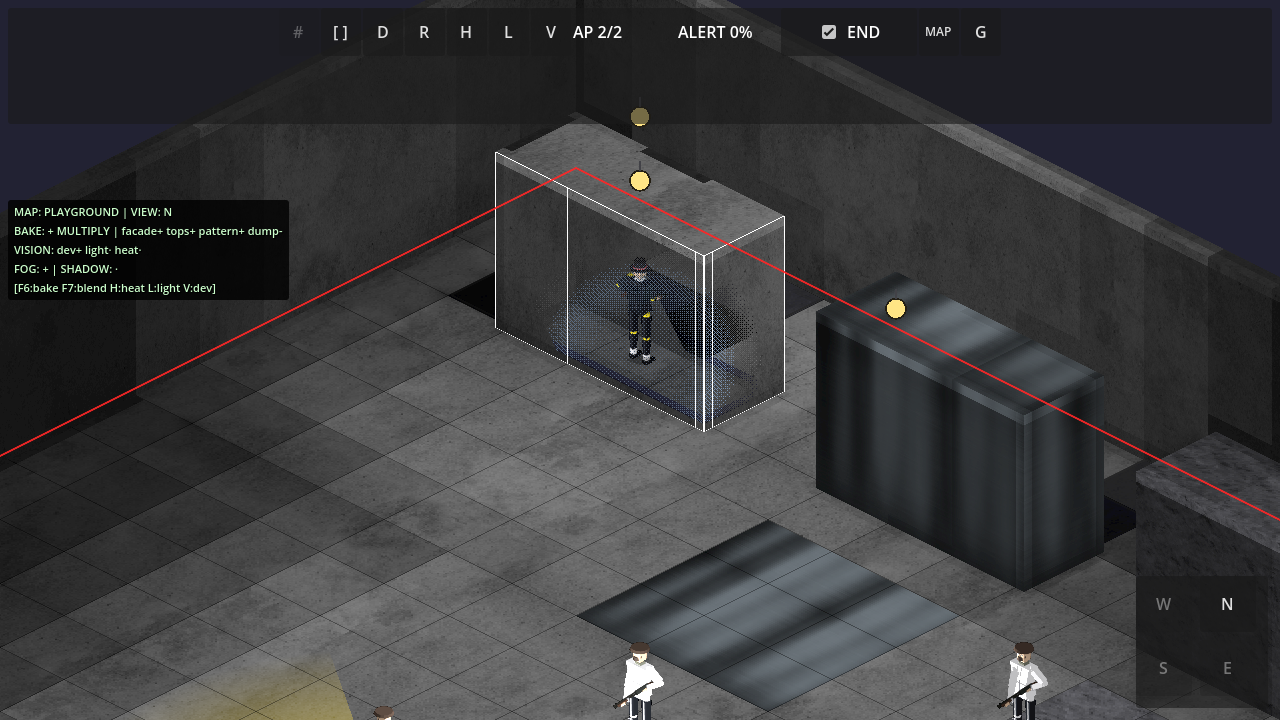
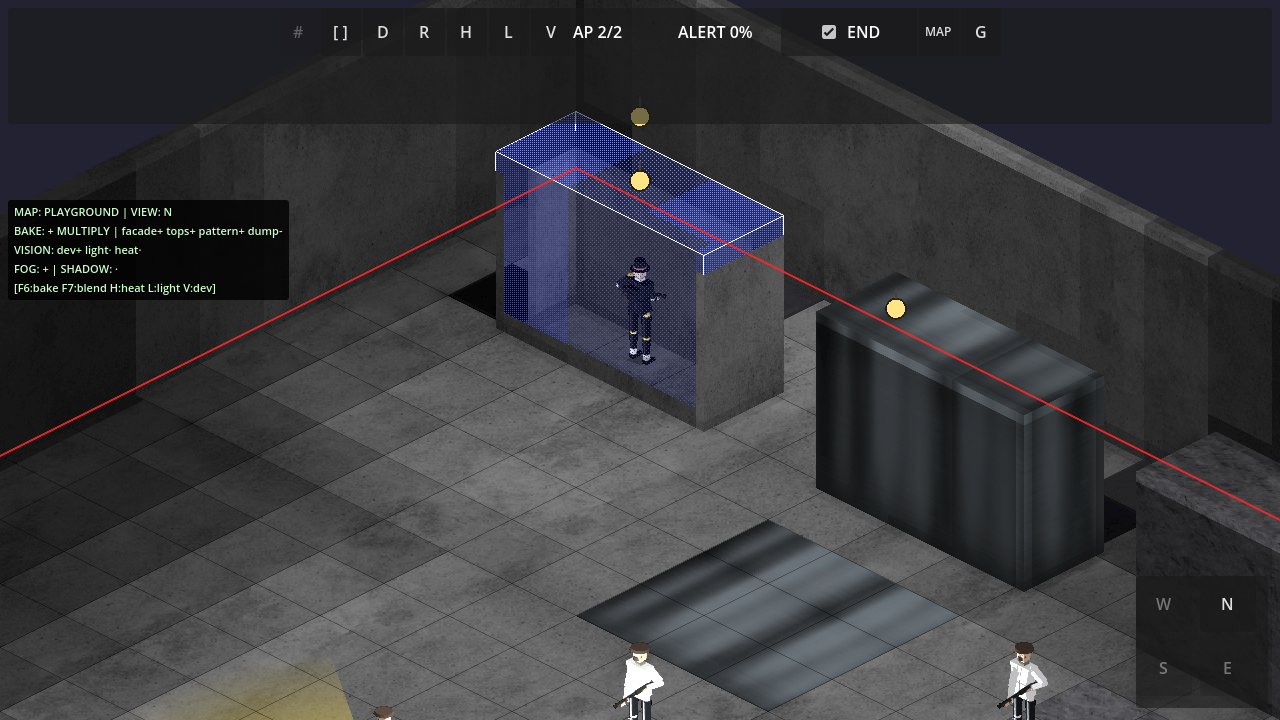
[R3D-7c] Cutaway driven by the OcclusionSet: solid 2-voxel base, dithered ghost above, wireframe lines; drops the cylinder and storey spikes

Changed region(s): [[0.375, 0.1528, 0.625, 0.6111]]

diff --git a/PROMPTS/PLANNING/RENDER3D_MASTER_PLAN.md b/PROMPTS/PLANNING/RENDER3D_MASTER_PLAN.md
@@ -1904,24 +1904,26 @@ captures, 2D against 3D.
 
 ### R3D-7 — Occlusion and cutaway in 3D
 
-**SPIKE 2026-09-19 (`[R3D-7a/b]`) — two candidates built, LOOK CALL PENDING (Director).** Both are VIEW only
-(`Board3DLive._update_cutaway()` writes shader uniforms, nothing else — `OCCLUSION` O1 holds).
-`INFILTRAITOR_CUTAWAY_MODE = dither (default) | storey | both`, `CUTAWAY=0` off, `CUTAWAY_RADIUS`, `CUTAWAY_LINES=0`.
-- **Dither (Director: "gosto muito desse dither").** The opaque shader (decals derive from it) dithers what is
-  nearer the camera than the agent's plane, above the feet, inside a cylinder (R 1.4) along the camera ray:
-  three states from two Bayer thresholds — kept, discarded, or a **ghost diamond** (flat tint, face contrast
-  top 1.0 / SE 0.80 / SW 0.60) so the vanished wall stays readable. Only geometry NEARER than the agent is
-  cut; the wall behind is never touched. **White edge lines:** every merged quad also emits its four edges as a
-  line surface (`LINE_KEY`, 8 vertices per quad), and the line shader decides per QUAD (its bounds ride in
-  CUSTOM0/1; the camera ray is intersected with the quad's plane and clamped into it) so the whole outline of
-  a wall that is being ghosted shows, not just the part inside the circle. Capture:
-  `Screenshots/history/r3d7_cutaway_dither_spike.png`.
-- **Storey cut.** Everything above the agent's storey (feet + 1 unit) is discarded. Capture:
-  `r3d7_cutaway_storey_spike.png` — the cut walls are hollow (no cap on the cut plane yet).
-- **Known limits:** glass is not cut; a fixed radius; only the agent is revealed, not guards; the ghost fills only
-  the cylinder, while the outline covers the whole quad, so a long wall reads as a box; the storey cut is
-  map-wide, not per room; the 2D wireframe overlay remains what draws under `RENDER3D=0`. Cost of the lines:
-  8 vertices per merged quad and one extra draw surface per chunk — NOT measured on the Moto.
+**BUILT 2026-09-19 (`[R3D-7c]`) — the ORIGINAL 2D mechanism, on 3D. LOOK CALL PENDING (Director).** The
+Director's diagram (2026-09-19) is the spec: an occluded EDGE keeps its bottom 2 voxels solid (a fixed
+8x2x2 block across the edge), and everything above it becomes a wireframe taking the shape of the slices
+above, with a fill whose opacity varies (ring). Two earlier spikes were REJECTED and deleted: a
+cylinder around the camera ray (it also cut the back wall, because the camera looks down and a wall
+behind the agent counts as nearer in view depth), and a map-wide storey cut ("the player cannot know what
+is behind the wall").
+- **The set is the 2D board's own** (`OcclusionSet`, O1 — view, never state; nothing new decides what is
+  occluded): `Room._recompute_occlusion()` hands it to `Board3DLive.on_occlusion()`, which writes one texel per
+  grid column (min level, max level, ring + 1) and rebuilds the wireframe lines.
+- **Fill:** the face shader ghosts a voxel whose column is in the set and whose level is in [min, max]:
+  Bayer-dithered into discarded pixels and ghost diamonds, the diamonds' density the ring's opacity
+  (0.14 / 0.24 / 0.36), a flat periwinkle tint with per-face contrast (top 1.0 / SE 0.80 / SW 0.60). The levels
+  below min (the base) are untouched. Decals inherit it.
+- **Lines:** `OcclusionSet.get_wireframe_by_level()` is already merged across walls and hidden-face culled, so
+  its lattice lines become one line mesh (white, depth-tested); nothing is emitted per edge.
+- The 2D wireframe overlay is hidden while the 3D board is live. `INFILTRAITOR_CUTAWAY=0` = off.
+- Capture: `Screenshots/history/r3d7_cutaway_dither_spike.png` (agent behind a PLAYGROUND block: 260 columns
+  occluded; in open ground 0). **Not verified:** guards behind walls; glass (not ghosted); roofs and
+  interiors; the Moto cost; the flat fill has no separate top tint yet.
 
 ### R3D-8 — Retire the 2D board (the canon change)
 

diff --git a/tools/persistent/CODEMAP.md b/tools/persistent/CODEMAP.md
@@ -8,7 +8,7 @@
 > Design rationale and the inviolable rules live in `CLAUDE.md`
 > (hand-authored). This file is the mechanical mirror of the code.
 
-**274 scripts · 101183 lines total** (under `godot/scripts/`)
+**274 scripts · 101139 lines total** (under `godot/scripts/`)
 
 ## Index
 
@@ -529,7 +529,7 @@ extends `ConfirmationDialog` · 64 lines
 
 ### `board3d_live.gd`
 
-extends `Node3D` · 1512 lines
+extends `Node3D` · 1465 lines
 
 `godot/scripts/geometry/board3d_live.gd`
 
@@ -544,6 +544,10 @@ extends `Node3D` · 1512 lines
 - `FALLBACK_SOOT_MULT` = `[0.33, 0.47, 0.69, 0.84]`
 - `FALLBACK_TONE` = `[1.0, 0.975, 0.945]`
 - `OPAQUE_SHADER` = `"""`
+- `GLASS_SHADER` = `"""`
+- `GlassCrackMirror3DClass` = `preload("res://godot/scripts/geometry/glass_crack_mirror3d.gd")`
+- `DECAL_MATERIAL_ID` = `"__decals__"`
+- `DECAL_LIFT_VOXELS` = `0.02`
 - `INVALID_PICK` = `Vector2i(-9999, -9999)`
 - `GLASS_CAP_VOXELS` = `2`
 
@@ -6159,7 +6163,7 @@ extends `Node2D` · 35 lines
 
 ### `room.gd`
 
-extends `Node2D` · 12382 lines
+extends `Node2D` · 12385 lines
 
 `godot/scripts/world/room.gd`
 
